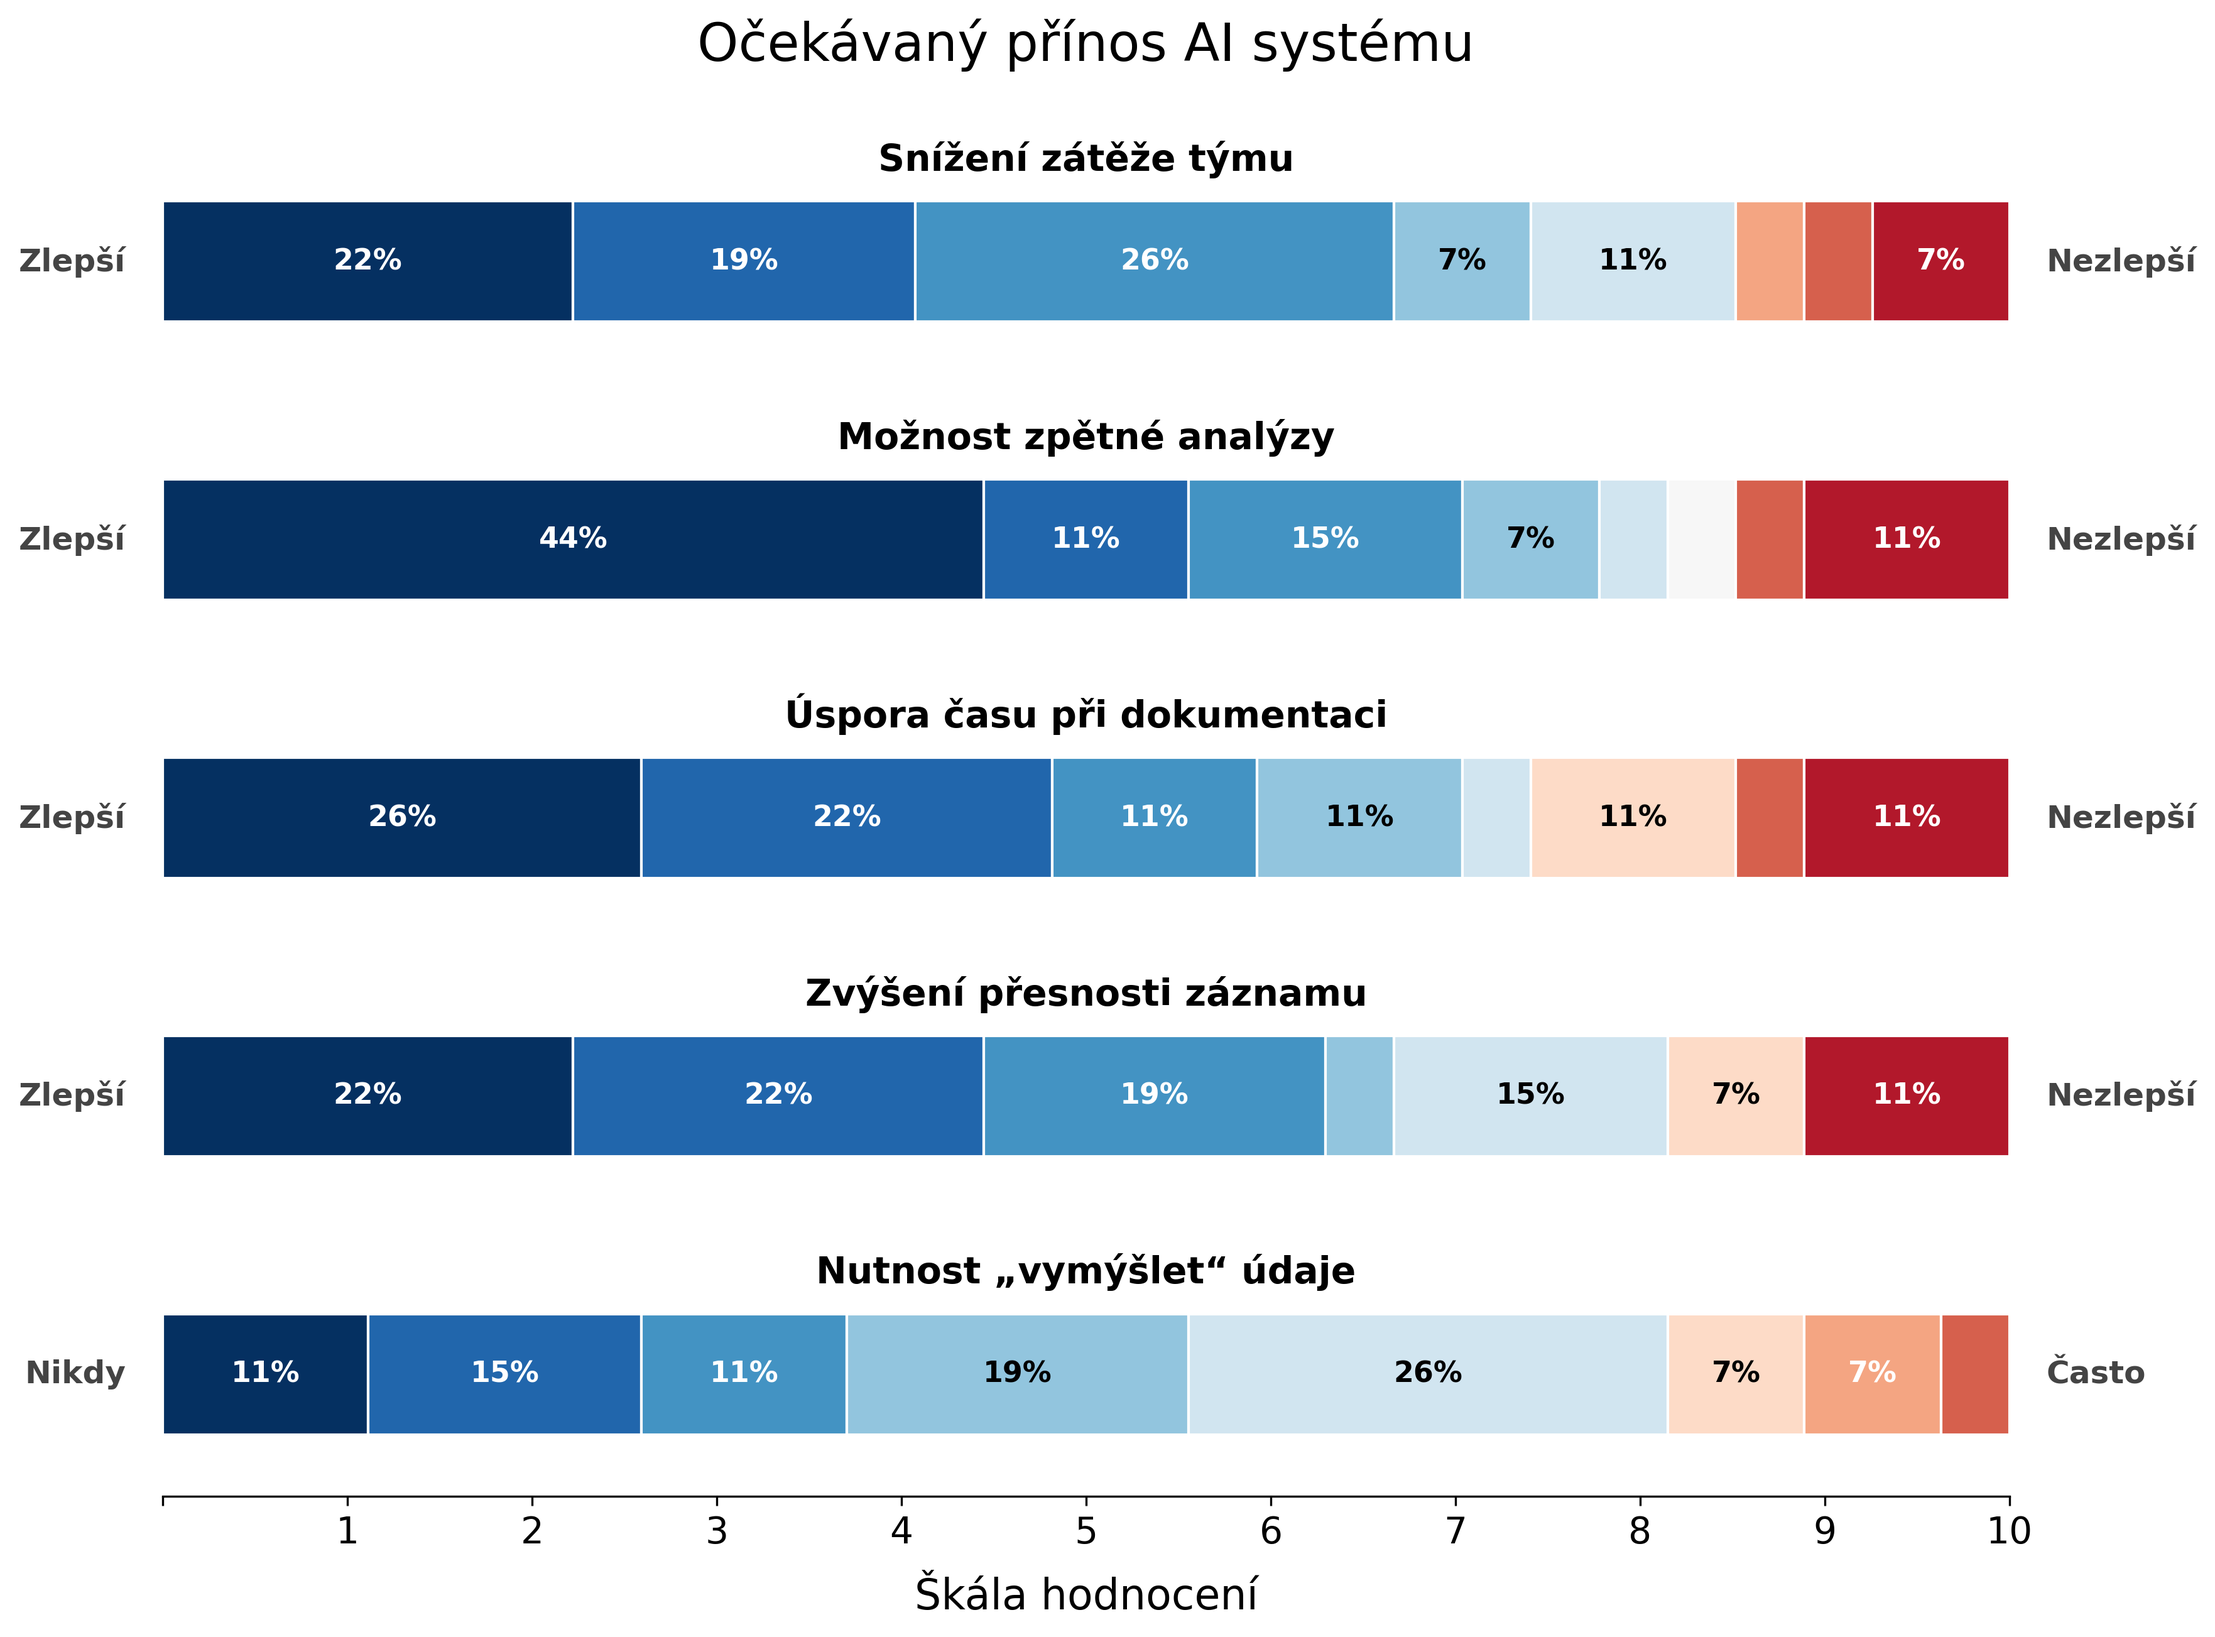
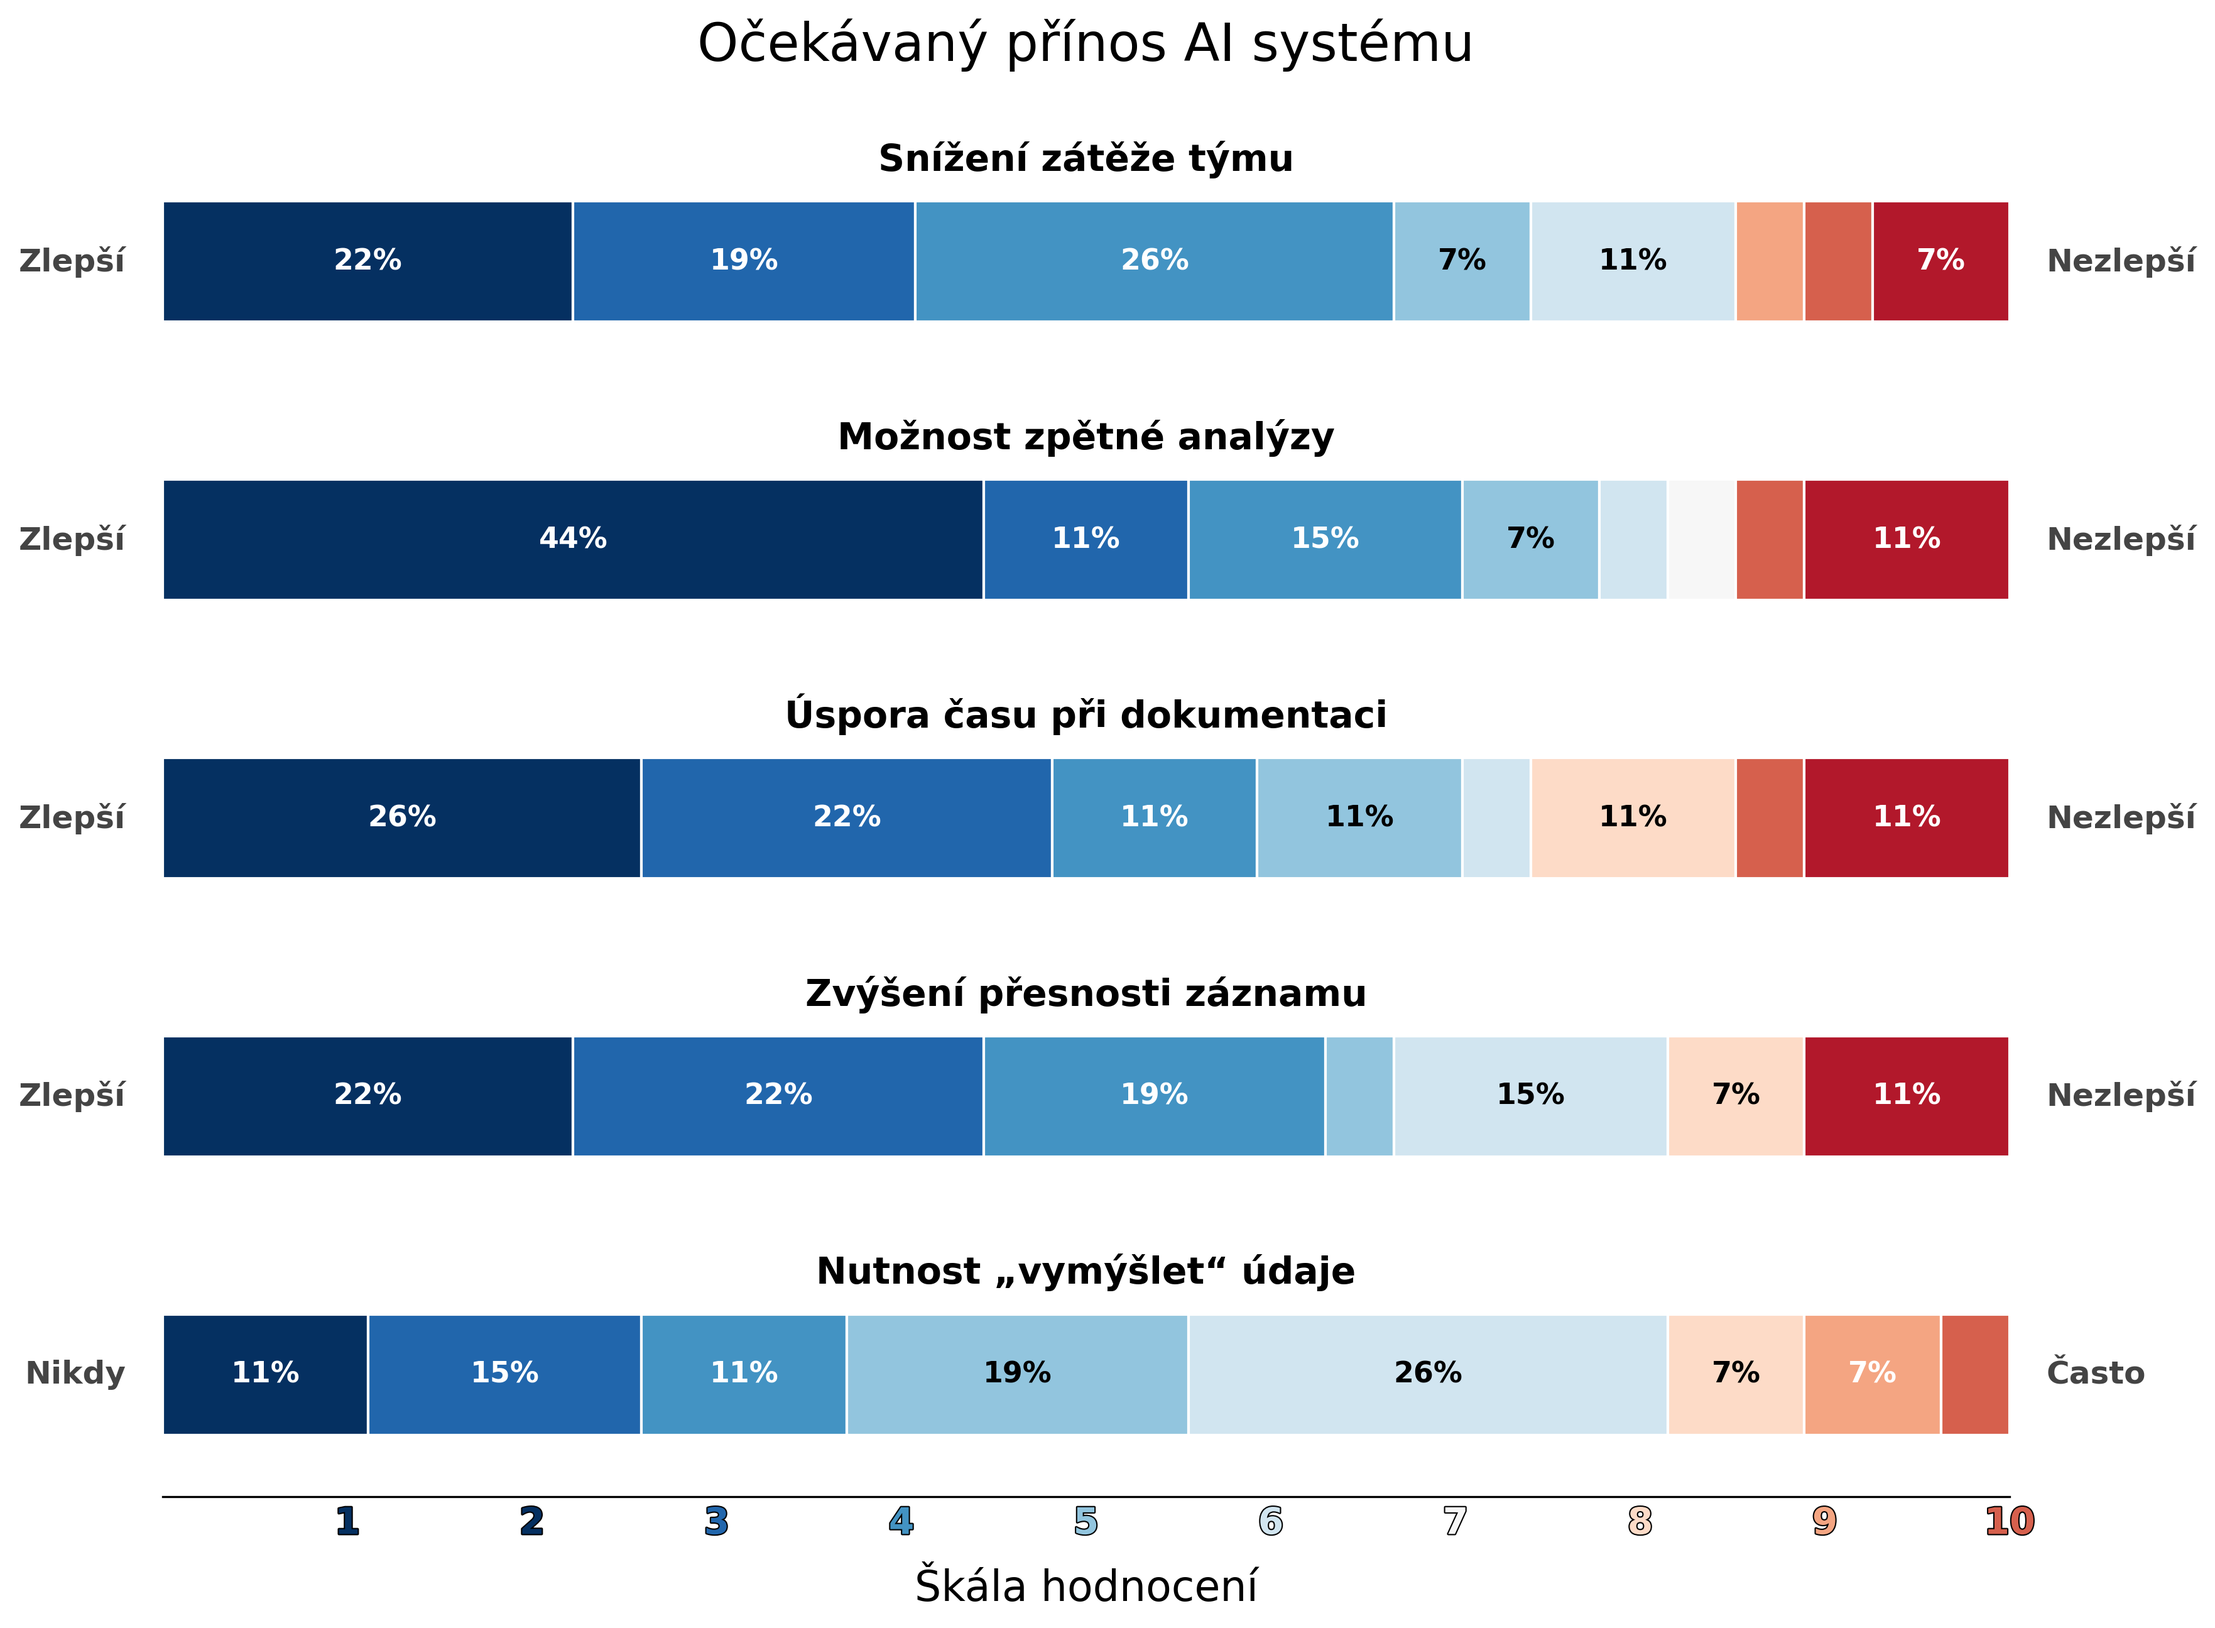
graph update 2

diff --git a/survey_analysis/graph2.py b/survey_analysis/graph2.py
@@ -1,42 +1,103 @@
 import pandas as pd
 import matplotlib.pyplot as plt
 from matplotlib import rcParams
+import numpy as np
 
 # ========= NASTAVENÍ =========
+# Pokud nemáš soubor, vytvoříme testovací
+try:
+    df = pd.read_csv("survey_data.csv")
+except FileNotFoundError:
+    print("CSV nenalezeno, vytvářím testovací data...")
+    data = ["Ano"] * 45 + ["Spíše ano"] * 30 + ["Spíše ne"] * 15 + ["Ne"] * 10
+    df = pd.DataFrame({"Vidíte praktický přínos takového systému ve své práci?": data})
+
 CSV_PATH = "survey_data.csv"
-OUTPUT_FILE = "prakticky_prinos_pie.png"
+OUTPUT_FILE = "prakticky_prinos_donut_styled.png"
 DPI = 300
+COLUMN_NAME = "Vidíte praktický přínos takového systému ve své práci?"
 
-# ========= STYL =========
+# ========= STYL (Dle vzoru Likert grafu) =========
+rcParams["font.family"] = "sans-serif"
 rcParams["font.size"] = 14
-rcParams["axes.titlesize"] = 20
-rcParams["figure.figsize"] = (8, 8)
+rcParams["axes.titlesize"] = 22
+rcParams["figure.figsize"] = (10, 10) # Větší čtvercová velikost
 
-# ========= NAČTENÍ DAT =========
-df = pd.read_csv(CSV_PATH)
-
-column = "Vidíte praktický přínos takového systému ve své práci?" #Vidí zdravotníci praktický přínos systému?
-
+# ========= PŘÍPRAVA DAT =========
 order = ["Ano", "Spíše ano", "Spíše ne", "Ne"]
-counts = df[column].value_counts(normalize=True).reindex(order).fillna(0)
+# Filtrace pouze na sloupce, které existují v datech (pro jistotu)
+existing_order = [o for o in order if o in df[COLUMN_NAME].unique()]
 
-# barvy: pozitivní modrá, negativní červená
-colors = ["#2166ac", "#67a9cf", "#f4a582", "#b2182b"]
+counts = df[COLUMN_NAME].value_counts(normalize=True).reindex(existing_order).fillna(0)
+total_respondents = df[COLUMN_NAME].notna().sum()
+
+# Barvy: Tmavě modrá, Světle modrá, Světle červená, Tmavě červená
+colors_map = {
+    "Ano": "#2166ac",
+    "Spíše ano": "#67a9cf",
+    "Spíše ne": "#f4a582",
+    "Ne": "#b2182b"
+}
+current_colors = [colors_map[cat] for cat in existing_order]
+
+# Definice barvy textu uvnitř výseče (bílá na tmavém, černá na světlém)
+text_colors_map = {
+    "Ano": "white",
+    "Spíše ano": "black", # nebo white, dle preference kontrastu
+    "Spíše ne": "black",
+    "Ne": "white"
+}
+current_text_colors = [text_colors_map[cat] for cat in existing_order]
+
+# Jemné oddělení výsečí pro atraktivnější vzhled
+explode = [0.02] * len(existing_order)
 
 # ========= VYKRESLENÍ =========
 fig, ax = plt.subplots()
 
+# Vykreslení grafu - zachytíme návratové objekty pro pozdější úpravu
 wedges, texts, autotexts = ax.pie(
     counts,
-    labels=order,
-    autopct=lambda p: f"{p:.0f}%" if p > 0 else "",
+    labels=existing_order,
+    autopct=lambda p: f"{p:.0f}%" if p > 1 else "", # Nezobrazovat procenta pod 1%
     startangle=90,
-    colors=colors,
-    wedgeprops={"edgecolor": "white", "linewidth": 2}
+    colors=current_colors,
+    explode=explode,
+    pctdistance=0.80, # Posunutí procent blíže k vnějšímu okraji
+    labeldistance=1.1, # Posunutí popisků kategorií dále
+    wedgeprops={
+        "edgecolor": "white",
+        "linewidth": 3,
+        "width": 0.5 # Změna na DONUT graf (šířka prstence)
+    },
+    textprops={'fontsize': 16, 'fontweight': 'bold'} # Základní styl pro vnější popisky
 )
 
-ax.set_title("Vnímání praktického přínosu systému")
+# --- Detailní stylování textů ---
+
+# 1. Stylování procent uvnitř grafu (autotexts)
+for i, autotext in enumerate(autotexts):
+    # Nastavení barvy textu podle podkladu (bílá/černá)
+    autotext.set_color(current_text_colors[i])
+    autotext.set_fontsize(18) # Větší písmo pro procenta
+    autotext.set_fontweight('bold')
+
+# 2. Stylování vnějších popisků (texts)
+for text in texts:
+    text.set_color("#333333") # Tmavě šedá pro vnější popisky
+
+# --- Přidání textu do středu (Donut hole) ---
+# Získáme středovou kružnici a přidáme do ní text
+centre_circle = plt.Circle((0,0),0.70,fc='white')
+fig.gca().add_artist(centre_circle)
+
+ax.text(0, 0.05, "Celkem\nrespondentů", ha='center', va='bottom', fontsize=14, color='gray')
+ax.text(0, -0.05, f"{total_respondents}", ha='center', va='top', fontsize=28, fontweight='bold')
+
+
+ax.set_title("Vnímání praktického přínosu systému", pad=20, fontweight='bold')
 
 plt.tight_layout()
-plt.savefig(OUTPUT_FILE, dpi=DPI)
+plt.savefig(OUTPUT_FILE, dpi=DPI, bbox_inches="tight")
+print(f"Graf uložen do: {OUTPUT_FILE}")
 plt.show()

diff --git a/survey_analysis/graph1.py b/survey_analysis/graph1.py
@@ -1,6 +1,7 @@
 import pandas as pd
 import numpy as np
 import matplotlib.pyplot as plt
+import matplotlib.patheffects as pe
 from matplotlib import rcParams
 
 # ========= NASTAVENÍ =========
@@ -126,10 +127,42 @@ for i, col in enumerate(existing_cols):
 # Skryjeme původní osu Y (názvy jsme přesunuli nad pruhy)
 ax.set_yticks([])
 
-# Nastavení osy X
+# ==============================================================
+# VYLEPŠENÁ OSA X (Skrytí 0, zarovnání, barvy a dynamické obrysy)
+# ==============================================================
 ax.set_xlim(0, 100)
-ax.set_xticks(np.arange(0, 101, 10)) 
-ax.set_xticklabels(['', '1', '2', '3', '4', '5', '6', '7', '8', '9', '10'])
+
+# Osa začne od 10 do 100 (krok 10), tím se zbavíme nuly
+ax.set_xticks(np.arange(10, 101, 10)) 
+ax.set_xticklabels(['1', '2', '3', '4', '5', '6', '7', '8', '9', '10'])
+
+# Skryje samotné "čárky" na ose X, nechá pouze zarovnaný text
+ax.tick_params(axis='x', length=0) 
+
+# Projdeme popisky a obarvíme je + přidáme dynamický outline
+for i, label in enumerate(ax.get_xticklabels()):
+    # Index 'i' jde 0 až 9, odpovídá číslům 1-10 a barvám v poli 'colors'
+    label.set_color(colors[i])
+    label.set_fontweight('bold')
+    
+    # Podmínka pro barvu outline - stejná logika jako máte pro čísla v grafu
+    # Indexy 3 až 6 (odpovídá číslům 4, 5, 6, 7 na škále) dostanou černý outline, zbytek bílý
+    #outline_color = "black" if 4 <= i <= 8 else "white"
+    outline_color = "black"
+    
+    label.set_path_effects([pe.withStroke(linewidth=1, foreground=outline_color)])
+
+ax.set_xlabel("Škála hodnocení", labelpad=15)
+ax.set_title("Očekávaný přínos AI systému", pad=30)
+
+# ==============================================================
+# NOVÉ: Obarvení čísel 1 až 10 na ose X dle barev z grafu
+# ==============================================================
+for i, label in enumerate(ax.get_xticklabels()):
+    # Index 0 je prázdný řetězec (''), čísla 1-10 jsou na indexech 1 až 10
+    if i > 0 and i <= len(colors):
+        label.set_color(colors[i - 1])
+        label.set_fontweight('bold') # Přidáme tučné písmo pro lepší čitelnost
 
 ax.set_xlabel("Škála hodnocení", labelpad=10)
 ax.set_title("Očekávaný přínos AI systému", pad=30) # Větší odstup nadpisu
